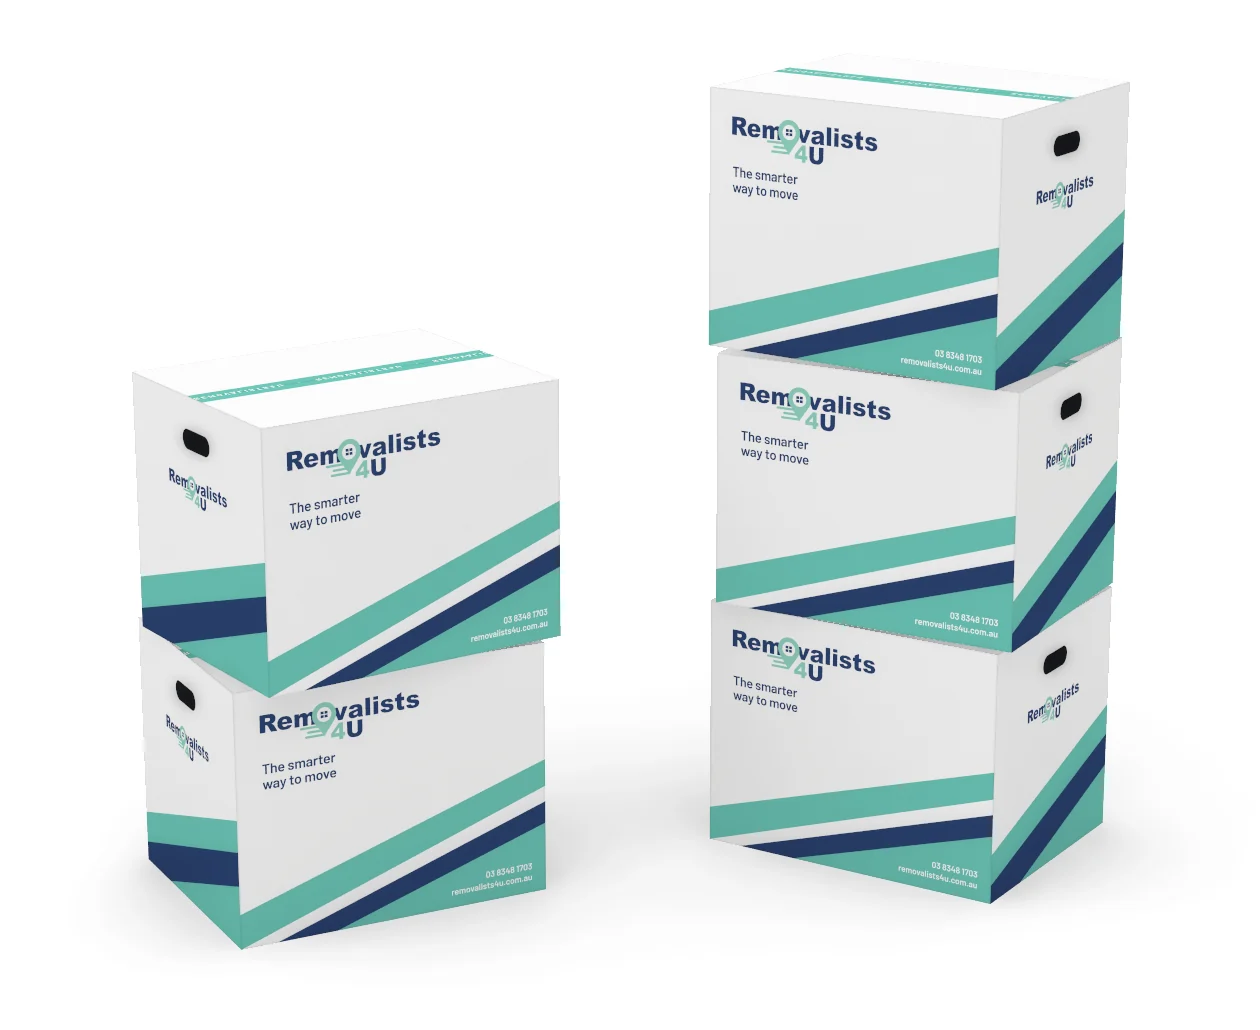
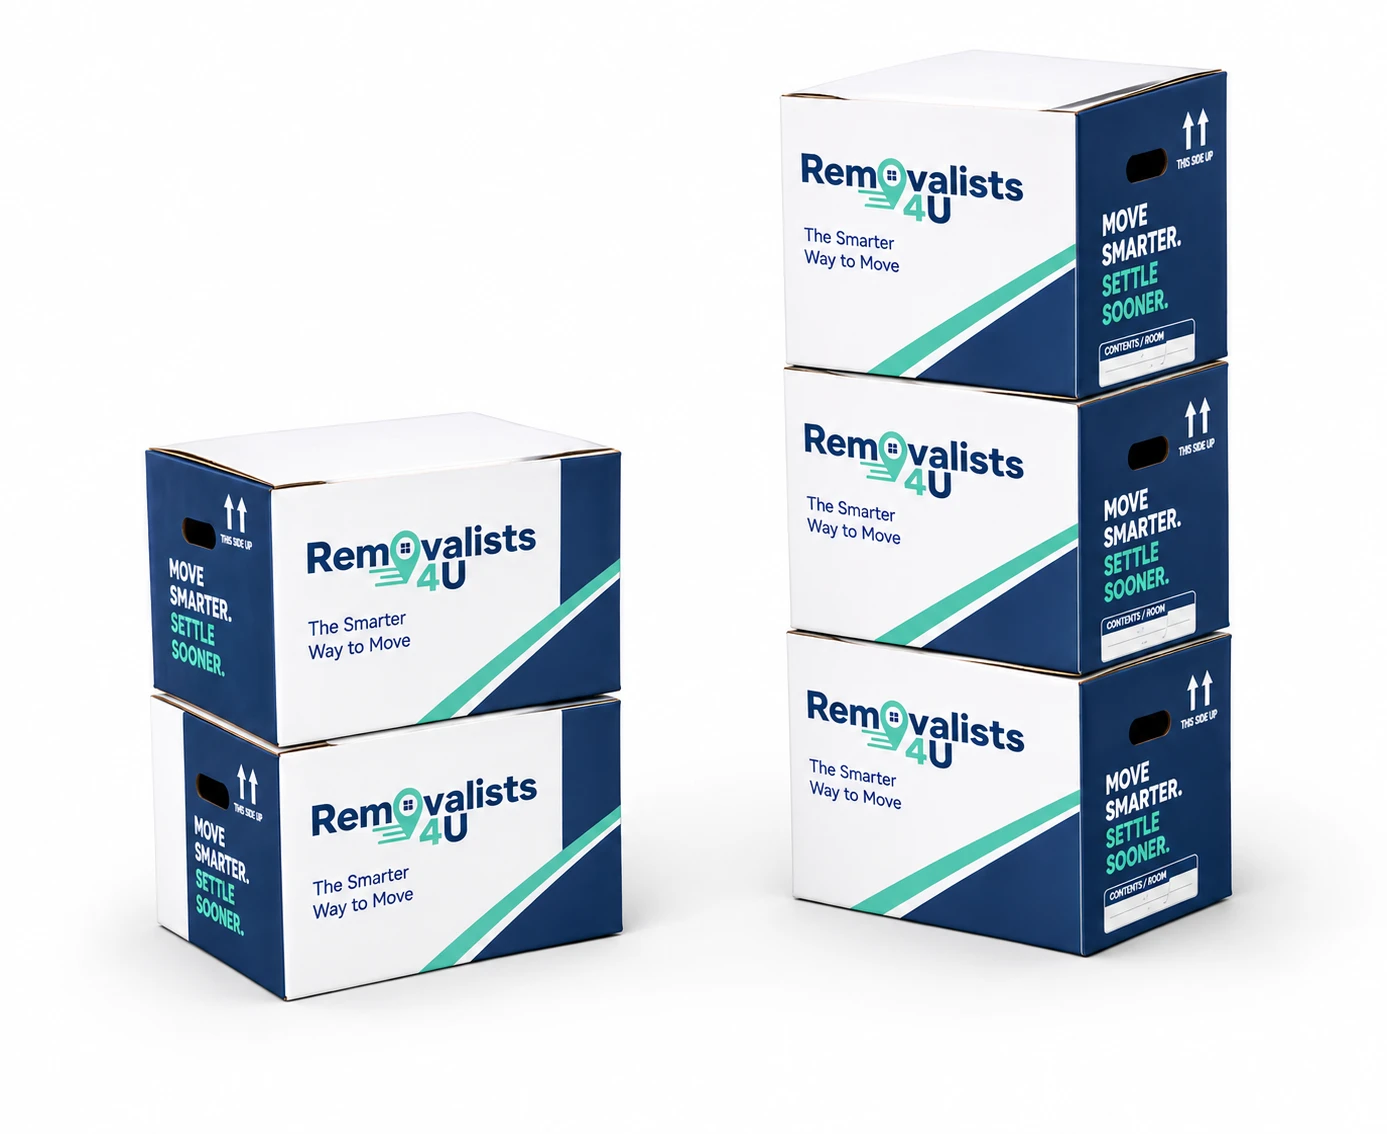
Replace moving boxes image with new navy box design

Changed region(s): [[0.5571, 0.0621, 0.8976, 0.901], [0.0929, 0.3417, 0.4643, 0.932]]

diff --git a/index.html b/index.html
@@ -377,7 +377,7 @@ footer a{text-decoration:none}footer a:hover{color:#fff}
 <span id="about"></span>
 <section class="sec how" id="how">
   <div class="wrap">
-    <img src="assets/boxes.webp" width="1260" height="1030" loading="lazy" decoding="async" alt="Stacks of white Removalists4u moving boxes with teal and navy diagonal stripes">
+    <img src="assets/boxes.webp" width="1387" height="1134" loading="lazy" decoding="async" alt="Stacks of Removalists4u moving boxes in white and navy with a teal stripe">
     <div>
       <span class="eyebrow">How it works</span>
       <h2>One enquiry. One quote. Your team assigned.</h2>
